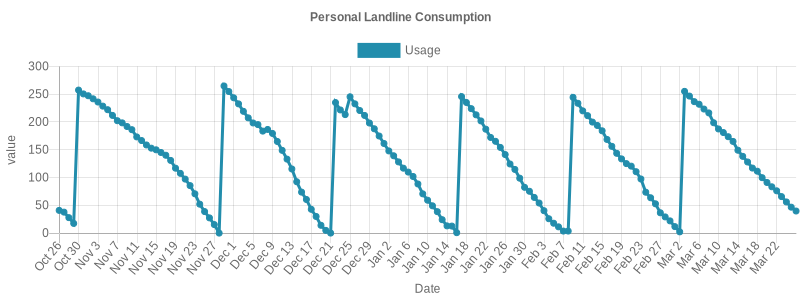
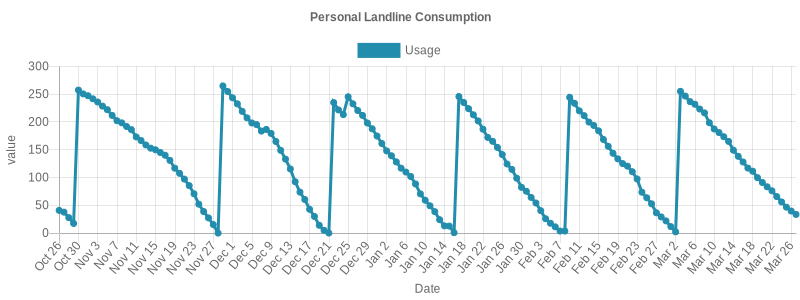
update logs

Changed region(s): [[0.0938, 0.24, 1.0, 0.93], [0.0938, 0.3, 0.125, 0.39], [0.0938, 0.42, 0.125, 0.48]]

diff --git a/quota-logs/README.md b/quota-logs/README.md
@@ -151,3 +151,4 @@
 ## Sun Mar 24 2024 00:35:27 GMT+0200|56.06/250
 ## Mon Mar 25 2024 00:35:03 GMT+0200|46.67/250
 ## Tue Mar 26 2024 00:35:37 GMT+0200|39.74/250
+## Wed Mar 27 2024 00:34:51 GMT+0200|33.6/250
